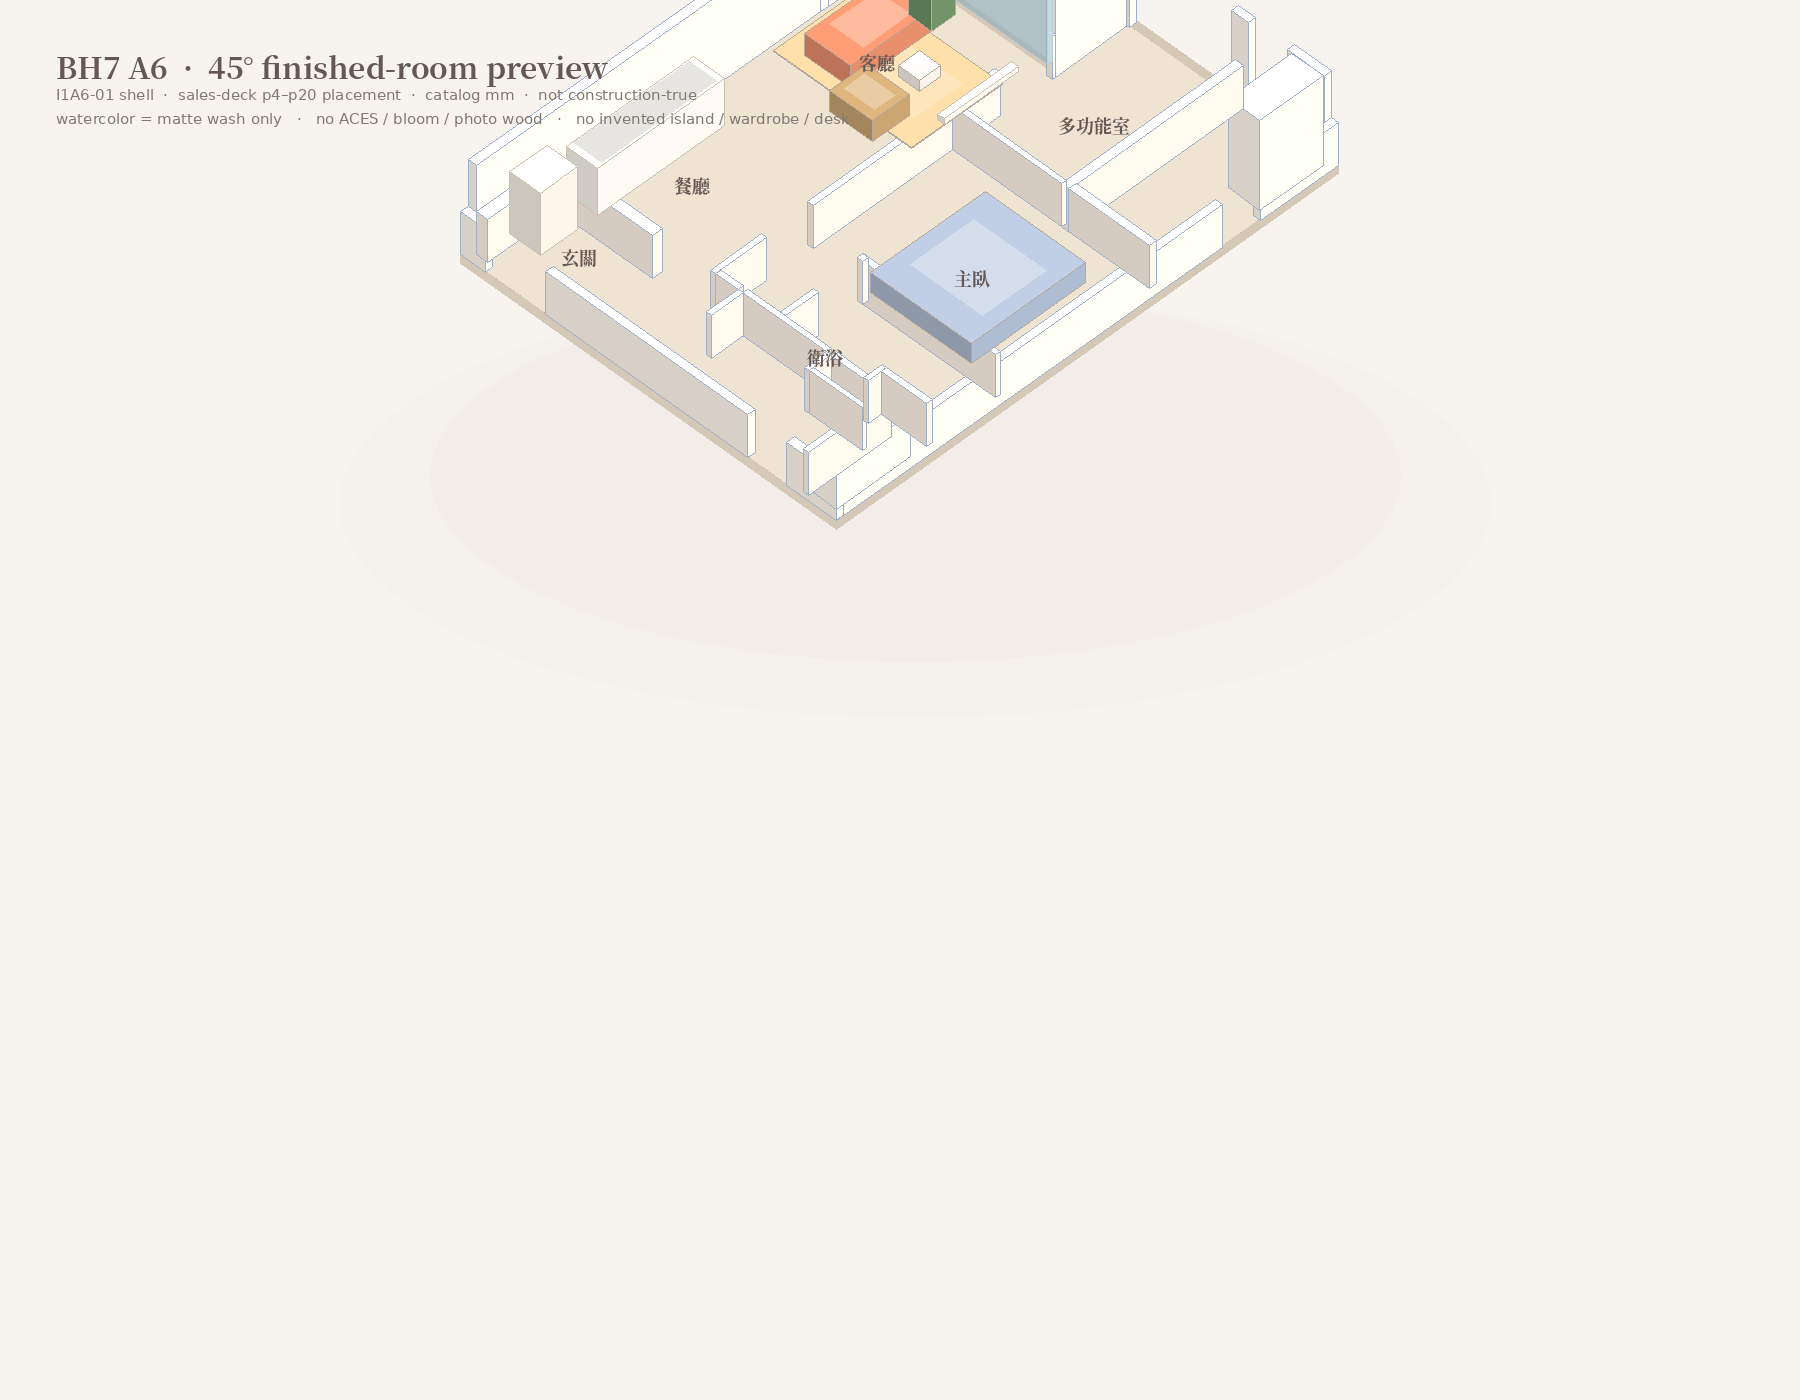
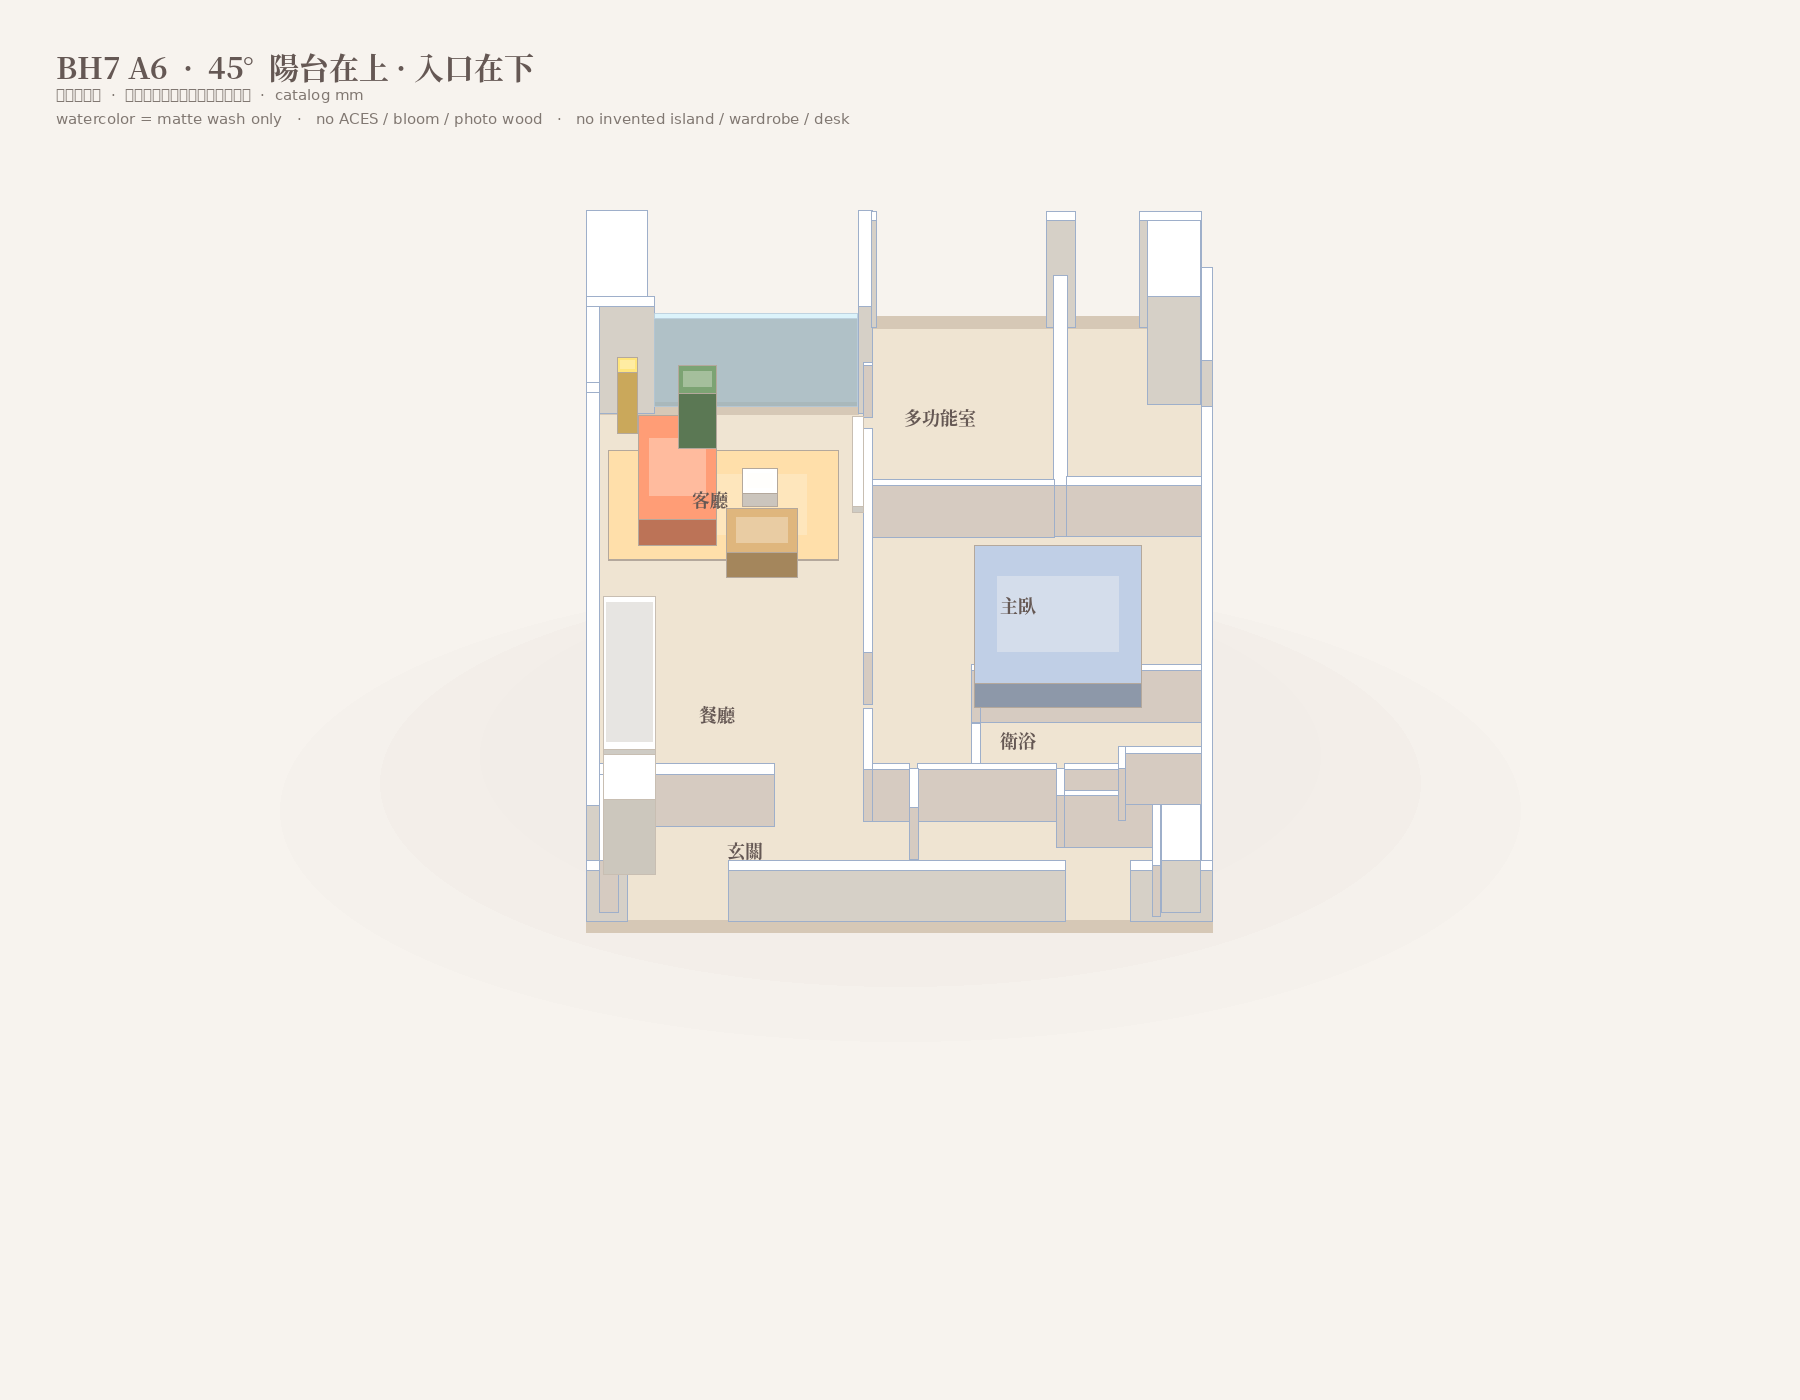
Fix A6 preview so 多功能室 sits east of the living room.
Align the 45° look-down with the sample-house plan (balcony up, entry down) and move the hero camera to frame 客廳 + 多功能室 together.

Changed region(s): [[0.2489, 0.0, 0.7467, 0.6757], [0.0311, 0.0307, 0.3422, 0.0921]]

diff --git a/app/lib/scene-presentation.ts b/app/lib/scene-presentation.ts
@@ -22,8 +22,8 @@ type PresentationRecipe = {
 
 const presentationRecipes: Record<"bh7-a6" | "bh7-a11", PresentationRecipe> = {
   "bh7-a6": {
-    heroTarget: [-1.90, 0.52, -1.75],
-    heroZoom: 96,
+    heroTarget: [-0.85, 0.52, -2.15],
+    heroZoom: 78,
     residentAnchor: [-0.58, -0.52],
   },
   "bh7-a11": {

diff --git a/scripts/render-a6-preview-45.py b/scripts/render-a6-preview-45.py
@@ -22,16 +22,15 @@ def world(x, y):
     return ((x - cx) * scale, (y - cy) * scale)
 
 
-# 45° azimuth from SE (entry / bath) looking toward balcony / living,
-# 45° elevation — finished-room look-down, not a 2D plan, not a GLB grid.
-S = 78.0
-ORIGIN = (900, 210)
-INV = math.sqrt(2.0)
+# Plan-aligned 45° from south (玄關) looking north (陽台).
+# +X east = right. +Z south/entry = down the image. Matches 樣品屋 p4.
+S = 92.0
+ORIGIN = (900, 620)
 
 
 def iso(x, y, z):
-    sx = ORIGIN[0] + (x - z) * S / INV
-    sy = ORIGIN[1] + (x + z) * S / 2.0 - y * S / INV
+    sx = ORIGIN[0] + x * S
+    sy = ORIGIN[1] + z * S * 0.72 - y * S * 0.72
     return (sx, sy)
 
 
@@ -77,9 +76,9 @@ fp_pdf = [
 ]
 fp = [world(*p) for p in fp_pdf]
 
-for r, a in ((560, 26), (470, 38), (380, 20)):
+for r, a in ((620, 26), (520, 38), (420, 20)):
     draw.ellipse(
-        [ORIGIN[0] - r, ORIGIN[1] + 80, ORIGIN[0] + r + 30, ORIGIN[1] + r * 0.62 + 160],
+        [ORIGIN[0] - r, ORIGIN[1] - 40, ORIGIN[0] + r, ORIGIN[1] + r * 0.55 + 80],
         fill=(232, 224, 214, a),
     )
 
@@ -189,20 +188,21 @@ try:
 except Exception:
     font = font_s = title_font = small = ImageFont.load_default()
 
+# I1A6-01 / 樣品屋 left-plan text anchors (page 2)
 labels = [
-    (-1.90, -1.70, "客廳"),
-    (-2.00, 1.55, "餐廳"),
-    (-2.10, 3.50, "玄關"),
-    (0.70, -2.70, "多功能室"),
-    (1.72, 0.20, "主臥"),
-    (1.40, 2.55, "衛浴"),
+    (*world(230.5, 300.5), "客廳"),
+    (*world(234.8, 485.5), "餐廳"),
+    (*world(251.9, 602.3), "玄關"),
+    (*world(361.9, 230.5), "多功能室"),
+    (*world(421.1, 391.7), "主臥"),
+    (*world(421.1, 507.9), "衛浴"),
 ]
 for x, z, text in labels:
     px, py = iso(x, 0.22, z)
     draw.text((px - 30, py - 8), text, fill=(101, 88, 84, 200), font=font_s)
 
-draw.text((56, 44), "BH7 A6  ·  45° finished-room preview", fill=(101, 88, 84), font=title_font)
-draw.text((56, 86), "I1A6-01 shell  ·  sales-deck p4–p20 placement  ·  catalog mm  ·  not construction-true", fill=(129, 120, 114), font=small)
+draw.text((56, 44), "BH7 A6  ·  45°  陽台在上 · 入口在下", fill=(101, 88, 84), font=title_font)
+draw.text((56, 86), "樣品屋平面  ·  多功能室在客廳東側、主臥北側  ·  catalog mm", fill=(129, 120, 114), font=small)
 draw.text((56, 110), "watercolor = matte wash only   ·   no ACES / bloom / photo wood   ·   no invented island / wardrobe / desk", fill=(129, 120, 114), font=small)
 
 out = "/workspace/evolution/docs/design-system/a6-preview-45.png"
